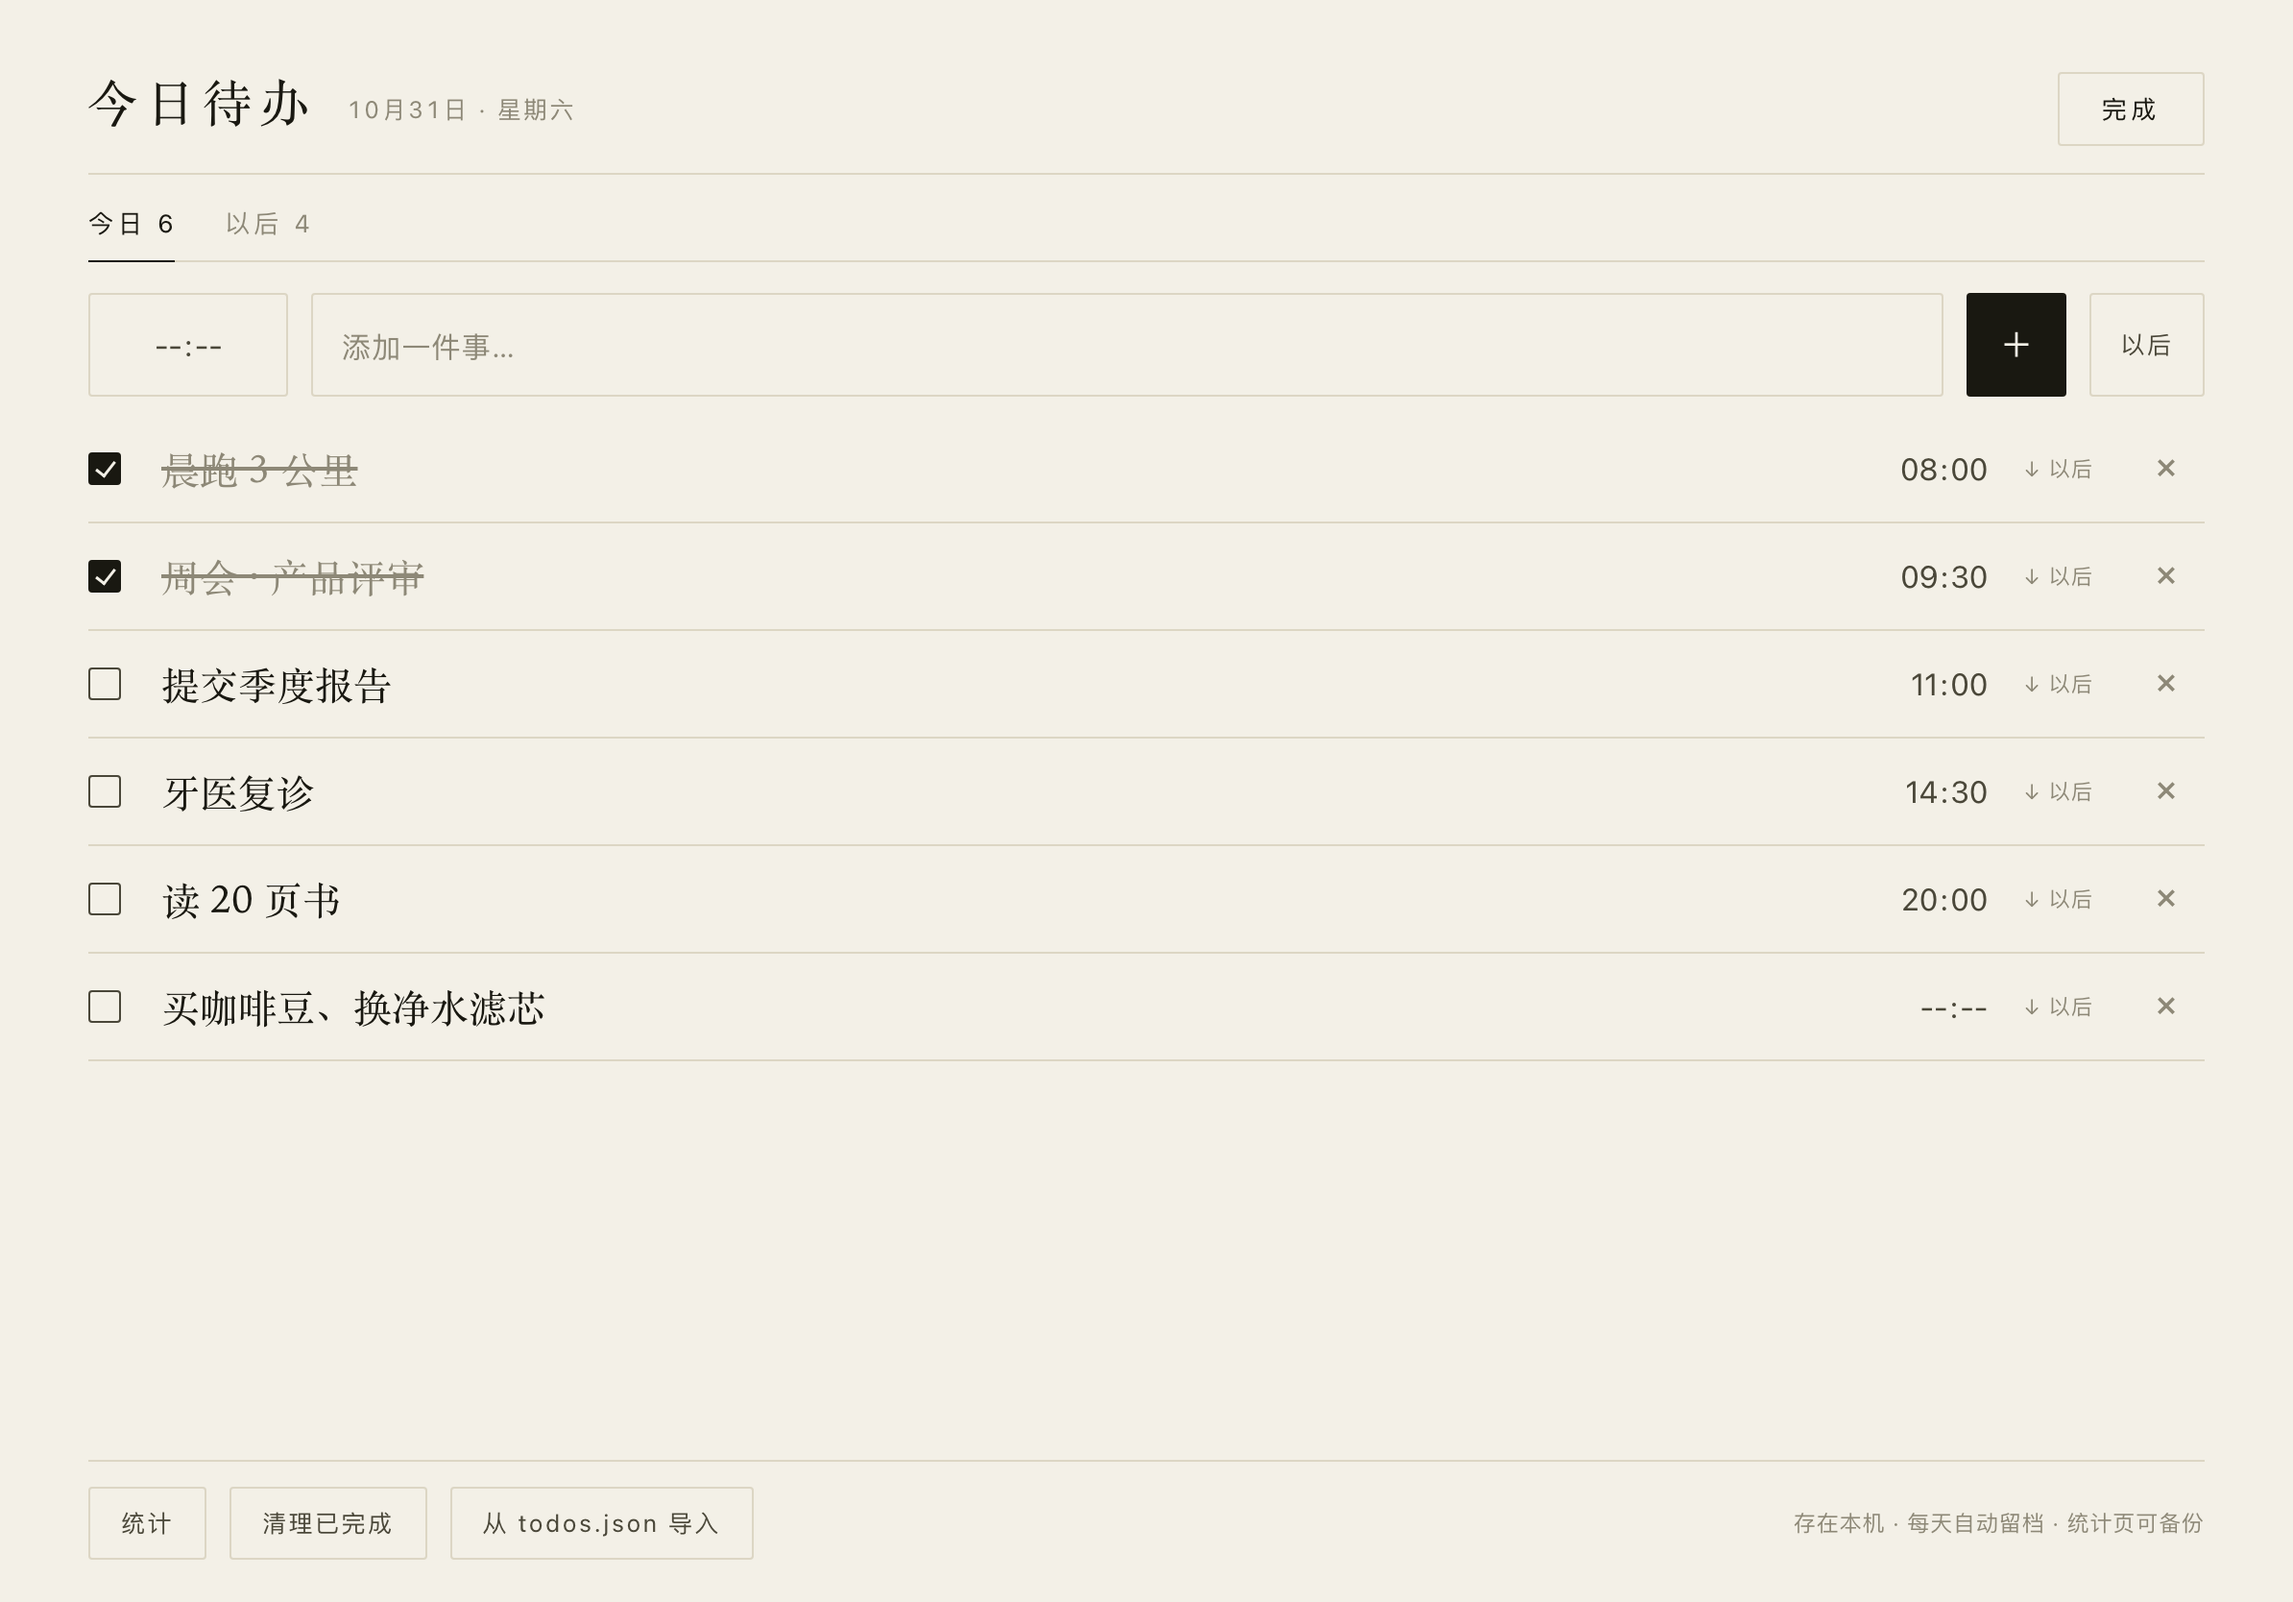
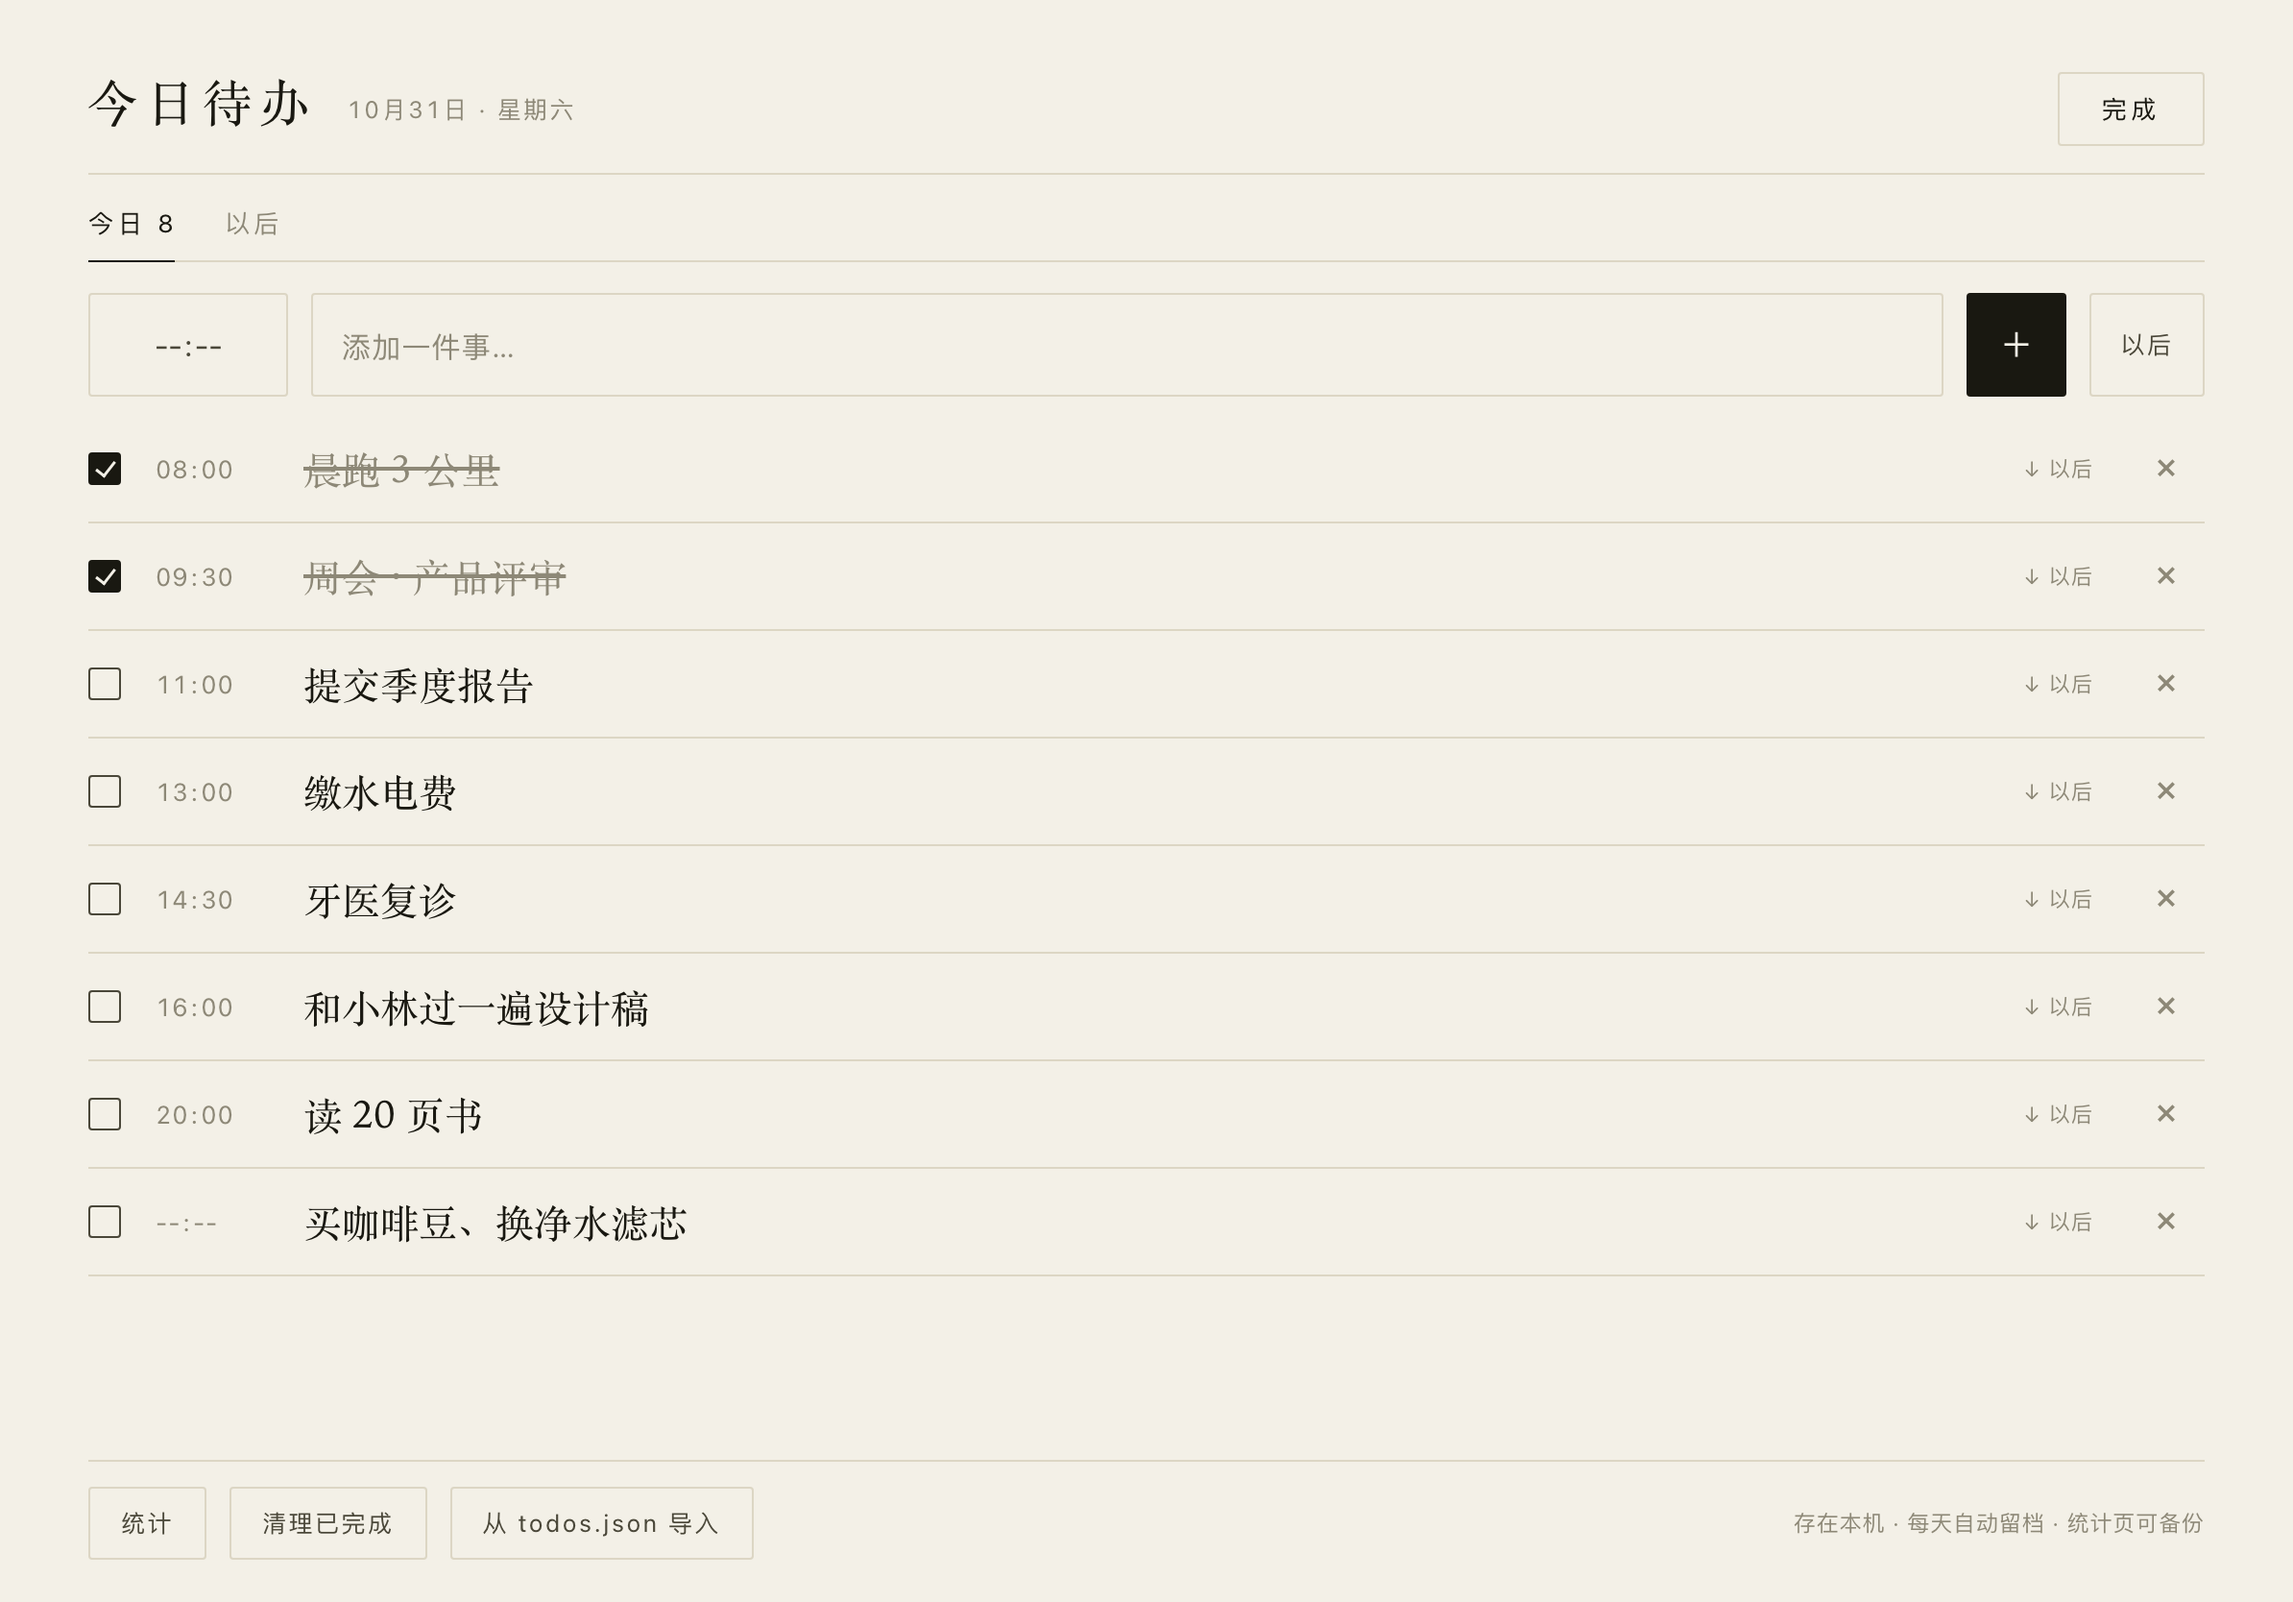
面板里的时间挪到文字前、改成与看板一致的小字（v22）

diff --git a/index.html b/index.html
@@ -265,7 +265,7 @@
 
   #sheetList{margin-top:10px;flex:1 1 auto;min-height:0;overflow:auto;-webkit-overflow-scrolling:touch}
   .srow{
-    display:grid;grid-template-columns:26px minmax(0,1fr) 104px 56px 40px;
+    display:grid;grid-template-columns:26px 66px minmax(0,1fr) 56px 40px;
     align-items:center;gap:8px;
     border-bottom:1px solid var(--rule);
   }
@@ -297,8 +297,9 @@
   .srow.done input.t{color:var(--muted);text-decoration:line-through}
   .srow input.tm{
     background:transparent;border:none;outline:none;
-    font-family:var(--sans);font-size:16px;color:var(--ink-2);
-    text-align:right;padding:14px 0;width:100%;
+    font-family:var(--sans);font-size:13px;color:var(--muted);
+    text-align:left;padding:14px 0;width:100%;
+    letter-spacing:.04em;font-variant-numeric:tabular-nums;
     -webkit-appearance:none;appearance:none;
   }
   .srow .del{
@@ -737,7 +738,7 @@
     ]
   };
 
-  const BUILD = "v21";   // 改版时 +1，页脚可见，用来确认主屏 App 拿到的是哪一版
+  const BUILD = "v22";   // 改版时 +1，页脚可见，用来确认主屏 App 拿到的是哪一版
 
   const params = new URLSearchParams(location.search);
   const DEMO_MODE = params.has("demo");
@@ -1485,9 +1486,9 @@
     box.innerHTML = list.map(t =>
       '<div class="srow' + (t.done ? " done" : "") + '" data-id="' + t.id + '">' +
         '<button class="cb" data-act="toggle" aria-label="标记完成"></button>' +
+        '<input class="tm" type="time" data-act="time" value="' + esc(t.time || "") + '" aria-label="时间">' +
         '<input class="t" data-act="text" value="' + esc(t.text) +
           '" enterkeyhint="done" autocapitalize="off" autocorrect="off" spellcheck="false" aria-label="内容">' +
-        '<input class="tm" type="time" data-act="time" value="' + esc(t.time || "") + '" aria-label="时间">' +
         '<button class="mv" data-act="toPool" aria-label="移到以后">↓ 以后</button>' +
         '<button class="del" data-act="del" aria-label="删除">×</button>' +
       "</div>"
